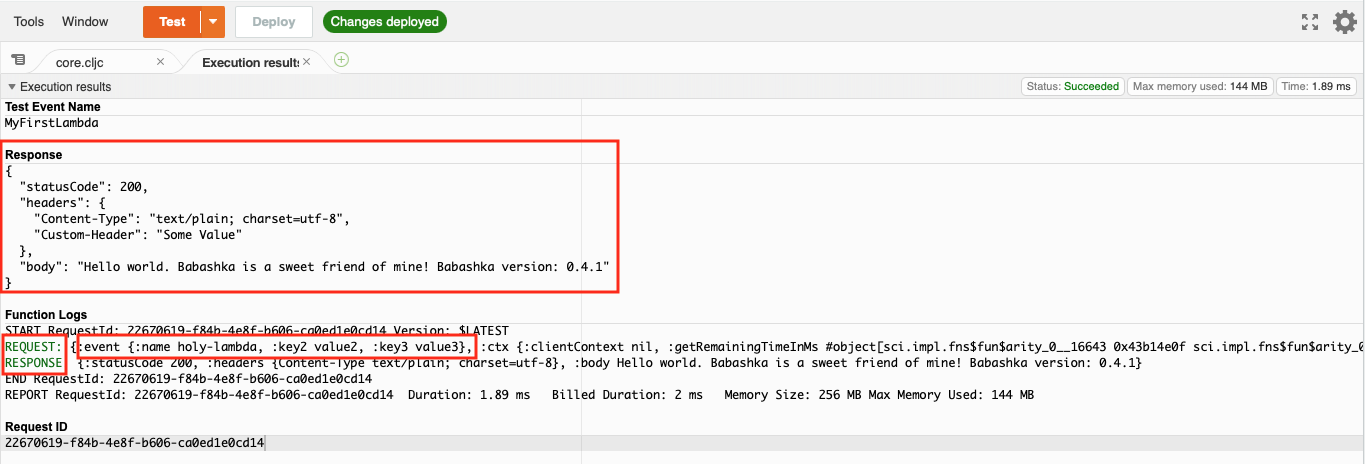
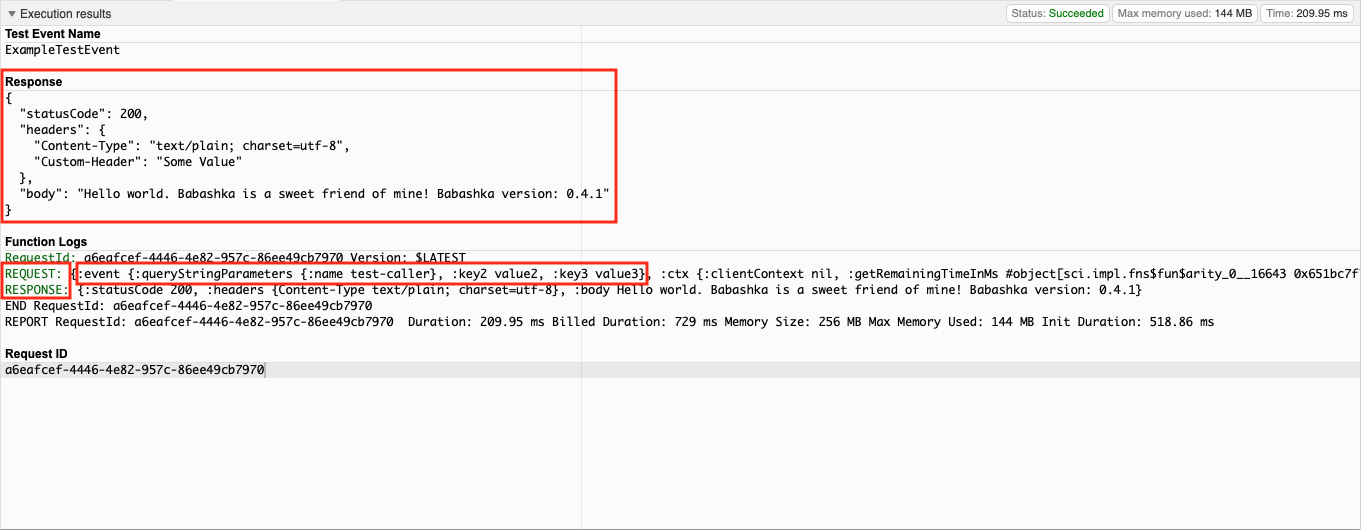
getting started first draft

Changed region(s): [[0.0, 0.0, 1.0, 1.0], [0.0, 0.9052, 0.216, 0.9655]]

diff --git a/doc/1-02-getting-started.md b/doc/1-02-getting-started.md
@@ -409,20 +409,25 @@ We invoke Lambda code from the AWS editor by creating a test event.
 
 Select the orange `Test` button to create a test event:
 
-Name the event as `MyFirstLambda` and change the payload to:
+Name the event as `ExampleTestEvent` and change the payload to:
 
 ```json
 {
-  "name": "holy-lambda",
+  "queryStringParameters": {
+    "name": "test-caller"
+  },
   "key2": "value2",
   "key3": "value3"
 }
 ```
+
+> :information_source: The API gateway integration with our Lambda is configured with an option to "Use Lambda Proxy integration", this will allow the API to pass named URL parameters through to Lambda (which we'll cover later). The URL parameters are presented to the Lambda via the as the nested `event` map `queryStringParameters`.
+
 Finally, select `Create` button.
 
 ![aws-console-lambda-test-event](images/aws-console-lambda-test-event.png "Create a Lambda test event")
 
-Click the orange `Test` button once more to execute the lambda function using the `MyFirstLambda` test event, which results in an "Execution result" window like this: 
+Click the orange `Test` button once more to execute the lambda function using the `ExampleTestEvent` test event, which results in an "Execution result" window like this: 
 
 ![aws-console-lambda-function-result-01](images/aws-console-lambda-function-result-01.png "First execution event")
 
@@ -435,7 +440,9 @@ Some details to note in the above output:
 
 ### Edit Code in AWS Lambda
 
-From the Lambda code editor, select `code.cljc` and replace the existing `say-hello` and `ExampleLambda` functions with the following:
+Now we're going to try out interactive Clojure editing from the AWS Lambda code editor. We're going to update the code to use the `name` URL parameter from the test event in our hello function.
+
+Select `code.cljc` and replace the existing `say-hello` and `ExampleLambda` functions with the following:
 
 ```clojure
 (defn say-hello
@@ -450,7 +457,7 @@ From the Lambda code editor, select `code.cljc` and replace the existing `say-he
              [{:keys [event ctx] :as request}]
 
              ;; access the name from the input event and say hello! 
-             (hr/text (say-hello (:name event))))
+             (hr/text (say-hello (:name (:queryStringParameters event)))))
 ```
 
 When you make edits, you need to deploy the changes:
@@ -461,15 +468,115 @@ Select the `Deploy` button.
 
 ![aws-console-lambda-code-deployed](images/aws-console-lambda-code-deployed.png "Lambda code editor: deployed changes")
 
-Now when you run the `MyFirstLambda` test event, you'll see the new output response:
+Now when you run the `ExampleTestEvent` test event, you'll see the new output response:
 
 ![aws-console-lambda-function-result-02](images/aws-console-lambda-function-result-02.png "Updated output reflects code changes")
 
-That's interactive code editing, for Clojure, in AWS Lambda!
+That's interactive code editing, in Clojure, in AWS Lambda!
+
+> :warning: Any changes that are made directly in the editor will be overwritten when the `bb stack:deploy` task is next run. Remember to copy any necessary changes to the made code base. 
 
 ## End to End: Calling the Lambda from API Gateway
 
-TODO
+The template project also creates a REST endpoint in API Gateway that is linked to our Lambda function.
+
+This section will give a tour of this aspect of the stack, and will guide you through some amendments and the API deployment. Finally, we'll make a call to the API using `curl` to see our stack working end-to-end.
+
+### API Gateway
+
+You can look at the application stack by navigating to the API Gateway service:
+
+![aws-console-services-api-gateway](images/aws-console-services-api-gateway.png "Select API Gateway service")
+
+![aws-console-api-gateway-apis](images/aws-console-api-gateway-apis.png "View the available APIs")
+
+From the left-hand menus, select `Resources` and the `GET` method. Here you can see that the GET request calls our Lambda function (highlighted on the far right):
+
+![aws-console-api-gateway-api-resources](images/aws-console-api-gateway-api-resources.png "GET request to Lambda")
+
+### Amend the API
+
+Select the `Method Request` link highlighted above to access the `Method Request editor`.
+
+We need to configure API gateway to allow the URL parameter `name` through to our lambda function:
+
+- Edit the `Request Validator` option and set to `Validate query string parameters and headers`
+- Expand the section `URL Query String Parameters`
+- Select `Add query string`
+- An edit box will appear, enter `name`
+- Ok the change using the tick icon on the right of the row
+- Select the `Required` checkbox
+
+![aws-console-api-gateway-get-method-request](images/aws-console-api-gateway-get-method-request.png "Edit Method Request to add a URL parameter")
+
+### Deploy the API
+
+Now we have our API changes in place, now we need to deploy the API before it is available to call.
+
+From the `Actions` menu, select `Deploy API`:
+
+![aws-console-api-gateway-deploy-action](images/aws-console-api-gateway-deploy-action.png "API deploy action")
+
+Select `Prod` from the `Deployment stage` dropdown. Select `Deploy`:
+
+![aws-console-api-gateway-deploy](images/aws-console-api-gateway-deploy.png "API deploy")
+
+Your API is now available to call and the URL is shown on the following screen. Copy *your* URL:
+
+![aws-console-api-gateway-stage-editor](images/aws-console-api-gateway-stage-editor.png "API stage editor")
+
+From your terminal, replace `YOUR_URL` with the output from the previous step:
+
+```bash
+curl YOUR_URL?name="api-caller"
+```
+
+```bash
+# Your command should look something like this (note: this is a non-working URL)
+curl https://a1bbbzzz99.execute-api.us-east-1.amazonaws.com/Prod?name="api-caller"
+```
+
+The API call will say hello to the name we provided as a URL parameter:
+
+```
+Hello api-caller. Babashka is a sweet friend of mine! Babashka version: 0.4.1
+```
+
+Finally, we'll go and check the log output from the API invocation.
+
+In Lambda, go back to your Lambda function and select the `Monitor` tab, followed by `View logs in CloudWatch`:
+
+![aws-console-lambda-function-monitor](images/aws-console-lambda-function-monitor.png "View the logs from your Lambda")
+
+![aws-console-cloudwatch-streams](images/aws-console-cloudwatch-streams.png "A list of output from Lambda invocations")
+
+![aws-console-cloudwatch-stream](images/aws-console-cloudwatch-stream.png "Output from Lambda invocations")
+
+## Clean up
+
+We can clear down our AWS resources using the following command:
+
+```bash
+bb stack:destroy
+[holy-lambda] Command <stack:destroy>
+[holy-lambda] Command <bucket:remove>
+[holy-lambda] Removing a bucket example-lambda-18dc55c0dc4d4fccb28209f3a4e01352
+delete: s3://example-lambda-18dc55c0dc4d4fccb28209f3a4e01352/holy-lambda/c522c95bb1b6466deca9e7f465994aa3
+remove_bucket: example-lambda-18dc55c0dc4d4fccb28209f3a4e01352
+```
+
+## Conclusion
+
+In this guide, we've covered many of the basics with `holy-lambda`. We've covered quite a lot actually, so well done for getting this far!
+
+We created a `holy-lambda` project based on the babashka runtime to allow interactive code editing in AWS. We ran local tests and deployed our stack to AWS.
+
+We demonstrated the power of interactive editing by enhancing our code in the AWS editor and using the Lambda test feature.
+
+Finally, we extended the API Gateway configuration to pass URL parameters to our Lambda function and conducted an end-to-end test from our terminal.
+
+We hope you enjoy using Clojure in AWS Lambdas using `holy-lambda`
+
 
 # Troubleshooting
   1. Running `bb stack:sync` results in:
@@ -489,6 +596,7 @@ TODO
       ```
       
       Fix all errors reported by the tool. If you still experience any issue please report it at [Github](https://github.com/FieryCod/holy-lambda/issues).
+      
    3. GraalVM native-image compilation fails due to not enough RAM memory on MacOS
    
       *Solution**:
@@ -503,29 +611,3 @@ TODO
       ```
   
       The layers of your template have not been configured correctly. Ensure that stack:sync reports and ARN and it has been added to the `template.myl`
-  
-  
-
-From original getting started text - probably has a place in Troubleshooting:  
-  
-  The first sync is not always successful. If this is the case check the following:  ** link to troubleshooting
-  - Is Docker running?
-  - Run `bb stack:purge` and run `bb stack:sync` once again
-  - If this still fails, run `bb stack:doctor` for diagnostic information
-  
-  **This behaviour may be overridden by changing `:self-manage-layers?` flag is set to `false`, then `holy-lambda` will automatically publish all necessary layers and output `ARN` of each.
-  
-  3. At this point you should have `.holy-lambda` directory in your project. If not then go to troubleshooting. Now you can choose one of three runtimes:
-  
-    - `:babashka`
-    - `:native`
-    - `:java`
-  
-     The template is adjusted in the way that all of the runtimes should work flawlessly and all you need to change is a `:runtime` value in `bb.edn`.
-  
-  
-  
-  
-  1. `:babashka` runtime
-     Babashka runtime is probably the best one to start the journey with `holy-lambda`. 
-         
